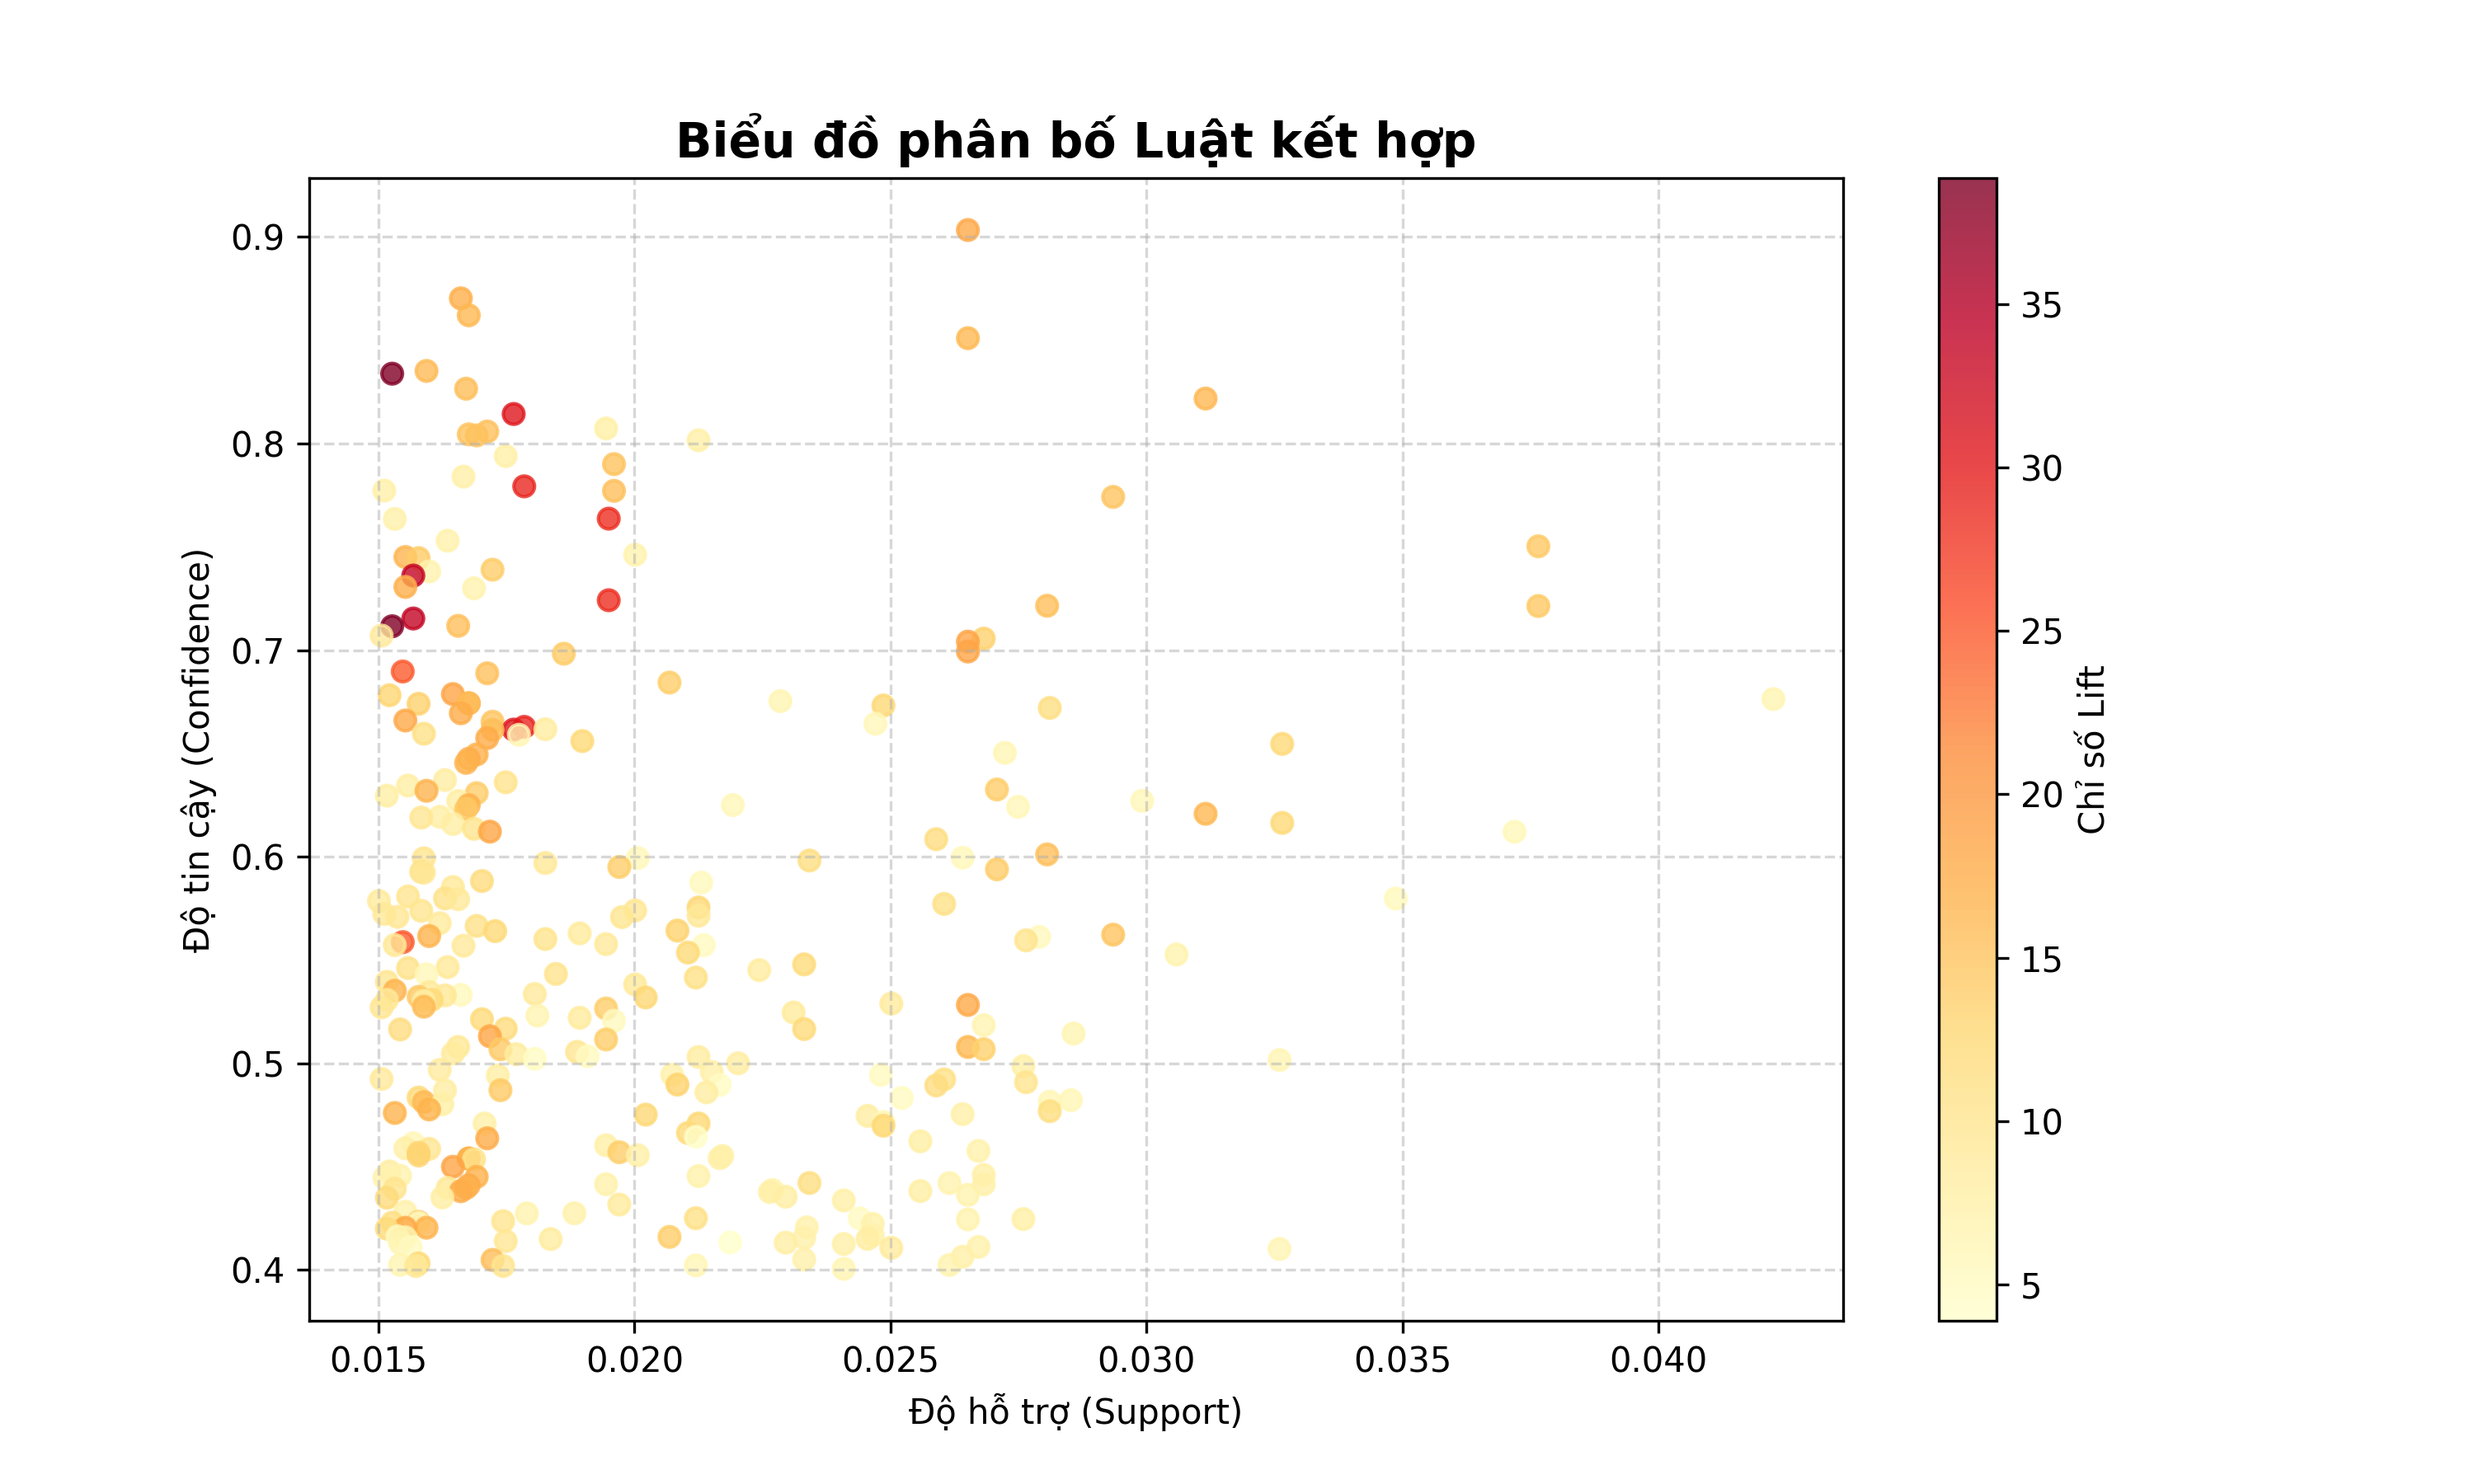
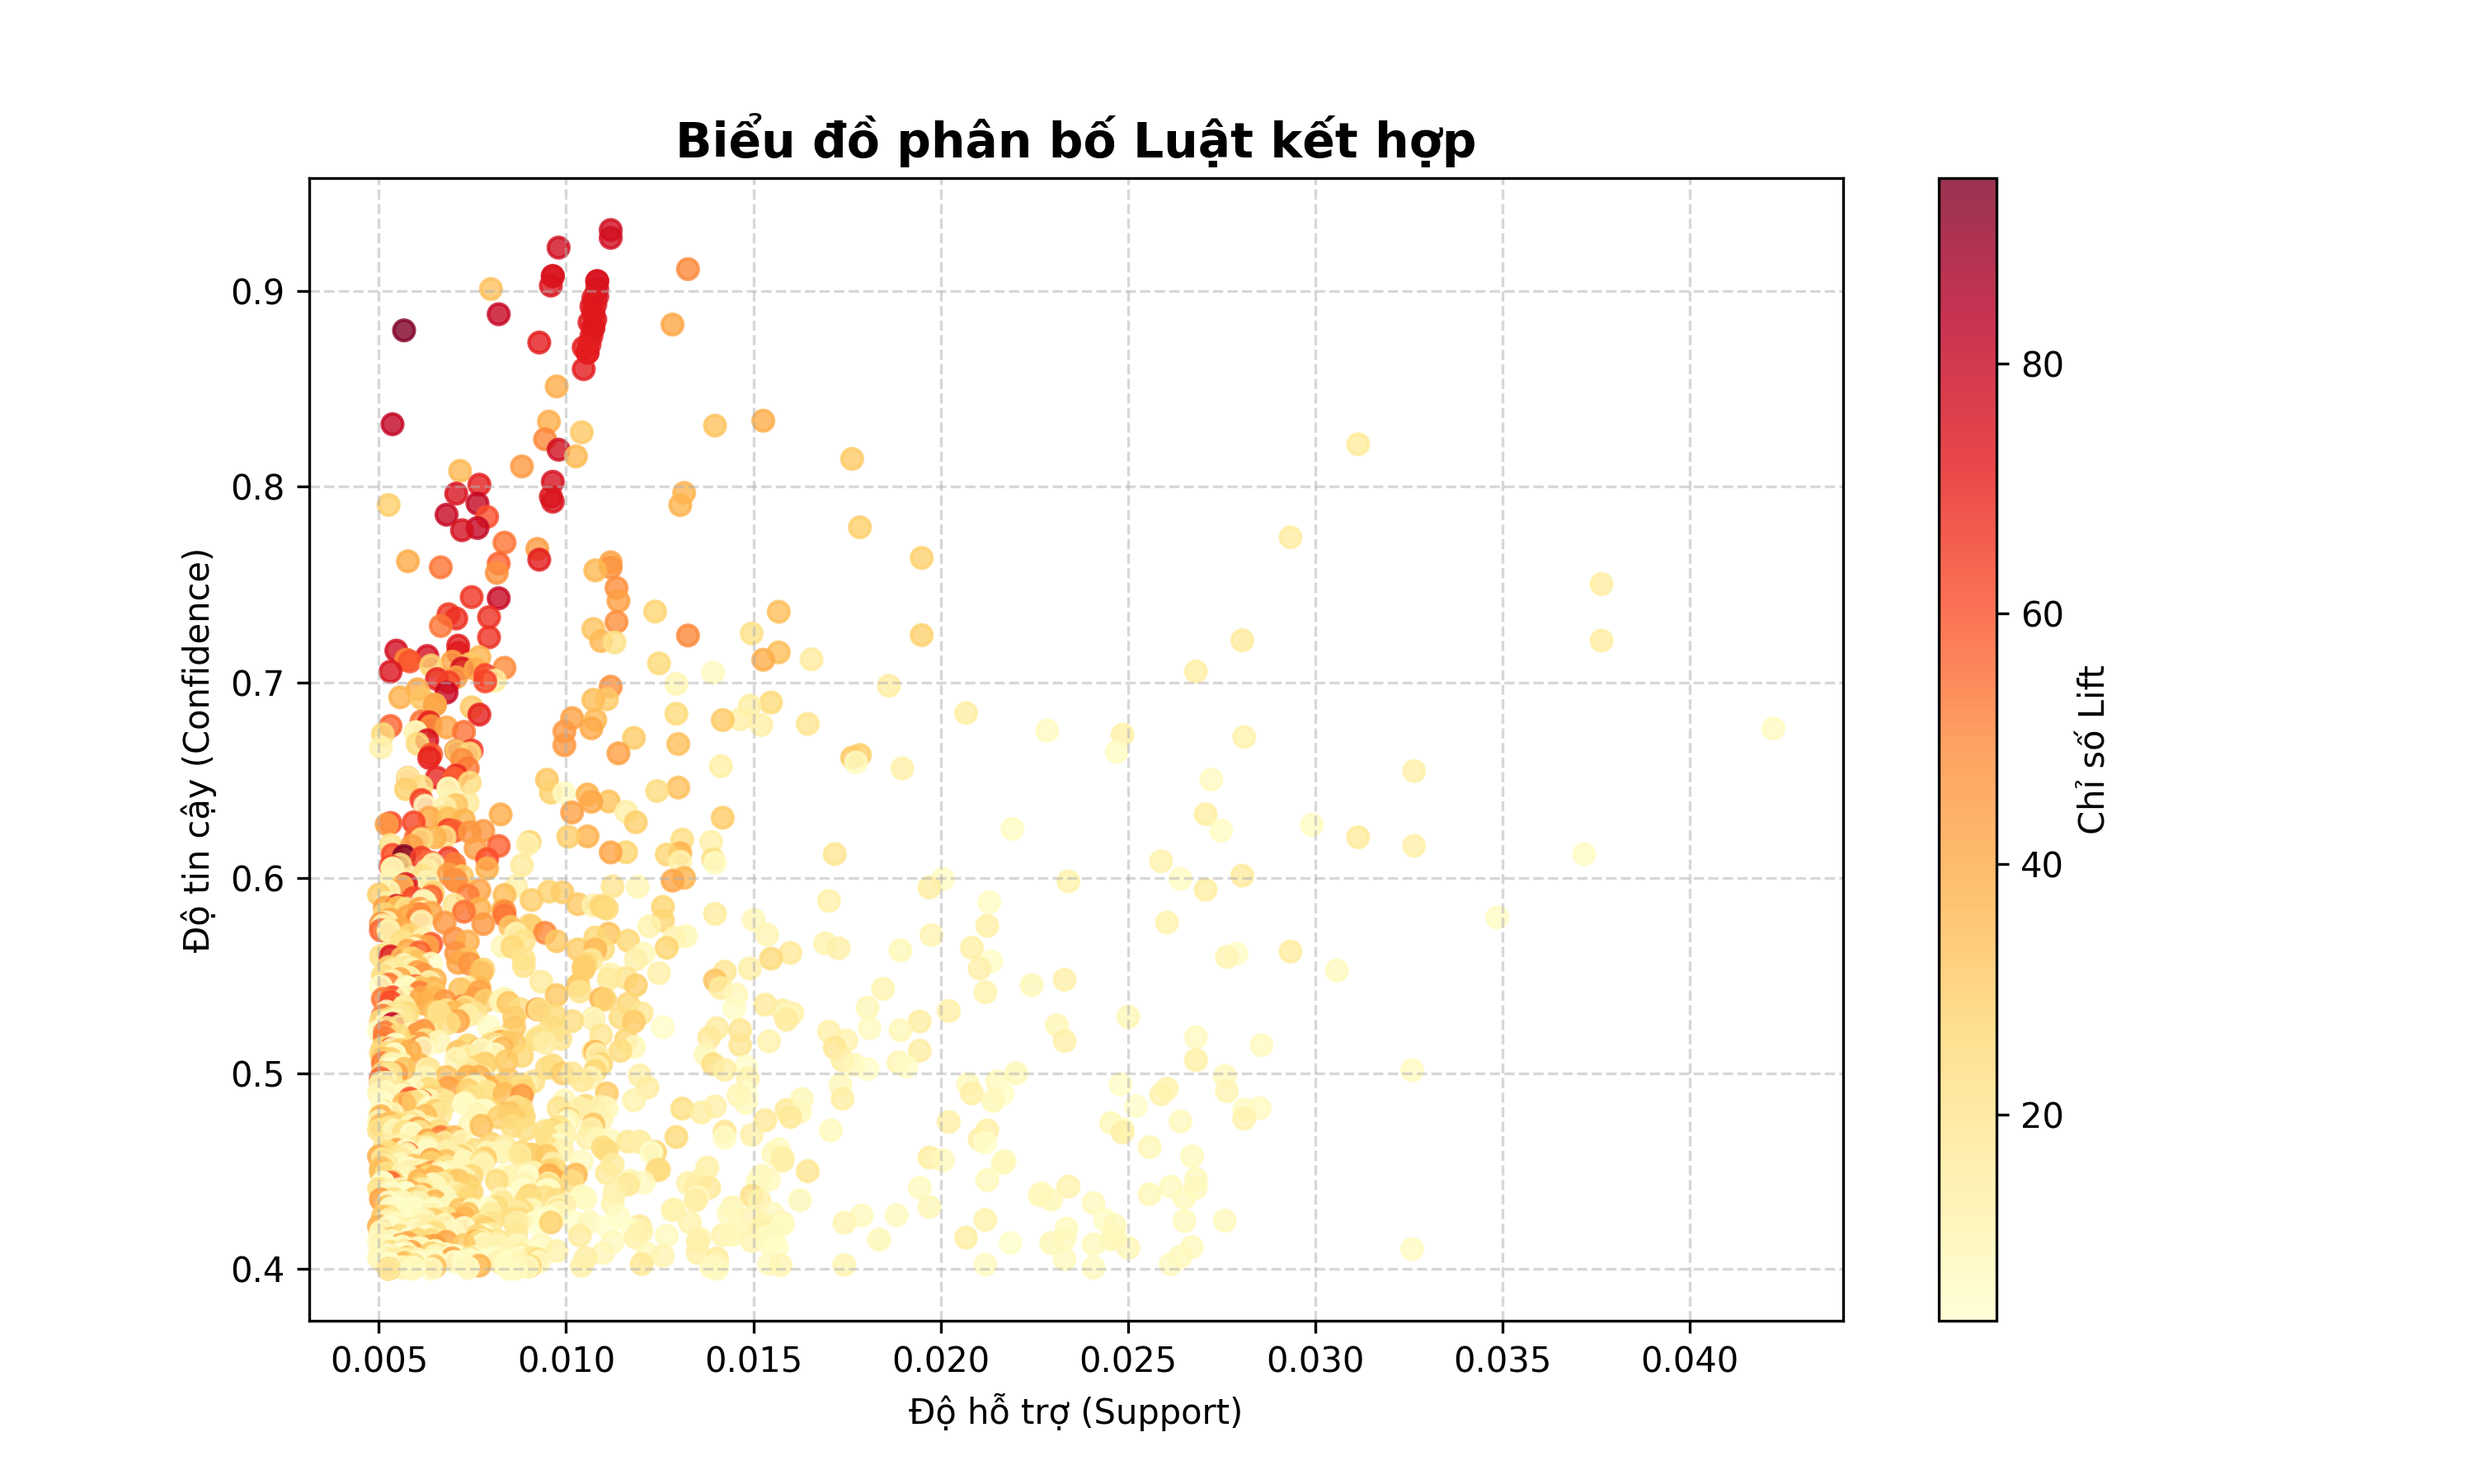
fishish

diff --git a/app.py b/app.py
@@ -94,14 +94,16 @@ def add_to_cart():
     cart.append(product_name)
     session['cart'] = cart
     
-    # Lấy gợi ý bằng cách đọc file CSV (Tuyệt đối không dính lỗi ODBC Unicode)
-    suggestions = rec_service.get_suggestions(cart, limit=3)
+    #suggestions = rec_service.get_suggestions(cart, limit=3) # Lấy gợi ý mới sau khi thêm sản phẩm vào giỏ
+    suggestions = rec_service.get_suggestions([product_name], limit=3) #chỉ lấy gợi ý cho sản phẩm vừa bấm 
     is_fallback = False
     
     if not suggestions:
+        print("FALLBACK MODE")
         suggestions = rec_service.get_top_selling(limit=3)
         is_fallback = True
-
+    print("Suggestions:", suggestions)
+    print("Fallback:", is_fallback)
     return jsonify({
         'cart_length': len(cart),
         'added_item': product_name,
@@ -154,6 +156,7 @@ def view_cart():
     
     # 3. Thuật toán Gợi ý mua kèm (FP-Growth)
     suggestions = rec_service.get_suggestions(cart, limit=3)
+    print("Suggestions:", suggestions)
     is_fallback = False
     
     if not suggestions and cart:

diff --git a/fp_growth_mining.py b/fp_growth_mining.py
@@ -48,9 +48,27 @@ def execute_mining(min_support_val=0.015, min_confidence_val=0.5):
             "status": "Không tìm thấy tập phổ biến nào."
         }
 
-    rules = association_rules(frequent_itemsets, metric="confidence", min_threshold=min_confidence_val)
-    rules = rules[rules['lift'] > 1] 
-    rules = rules.sort_values(['confidence', 'lift'], ascending=[False, False])
+    rules = association_rules(
+        frequent_itemsets,
+        metric="confidence",
+        min_threshold=min_confidence_val
+    )
+
+# Chỉ giữ luật 1 sản phẩm -> 1 sản phẩm
+    rules = rules[
+        (rules['antecedents'].apply(len) == 1)
+        &
+        (rules['consequents'].apply(len) == 1)
+]
+
+# Lift > 1
+    rules = rules[rules['lift'] > 1]
+
+# Sắp xếp theo độ mạnh
+    rules = rules.sort_values(
+        ['confidence', 'lift'],
+        ascending=[False, False]
+)
     rules_count = len(rules)
 
     # 3. Xuất file CSV

diff --git a/recommendation_service.py b/recommendation_service.py
@@ -79,12 +79,18 @@ class RecommendationService:
             return []
             
         cart_set = set(str(item).upper().strip() for item in cart_items)
+        print("===== CART =====")
+        print(cart_set)
         valid_suggestions = []
         
         try:
             for rule in self.cached_rules:
                 # TOÁN HỌC TẬP CON (issubset) được chạy thẳng trên RAM mất ~0.0001s
                 if rule['antecedents'].issubset(cart_set):
+
+                    print("MATCH RULE")
+                    print(rule['antecedents'])
+                    print(rule['consequents'])
                     filtered_consequents = [item for item in rule['consequents'] if item not in cart_set]
                     
                     for item in filtered_consequents:

diff --git a/db_helper.py b/db_helper.py
@@ -16,14 +16,6 @@ class DatabaseHelper:
     def get_engine(self):
         params = urllib.parse.quote_plus(self.conn_str)
         engine = create_engine(f"mssql+pyodbc:///?odbc_connect={params}", fast_executemany=True)
-        
-        @event.listens_for(engine, 'connect')
-        def receive_connect(dbapi_connection, connection_record):
-            # CHỈNH SỬA TẠI ĐÂY: Sử dụng utf-16le cho dữ liệu NVARCHAR (SQL_WCHAR) của SQL Server
-            dbapi_connection.setdecoding(pyodbc.SQL_WCHAR, encoding='utf-16le')
-            dbapi_connection.setdecoding(pyodbc.SQL_CHAR, encoding='utf-8')
-            dbapi_connection.setencoding(encoding='utf-8')
-            
         return engine
 
     def fetch_data(self, query):
